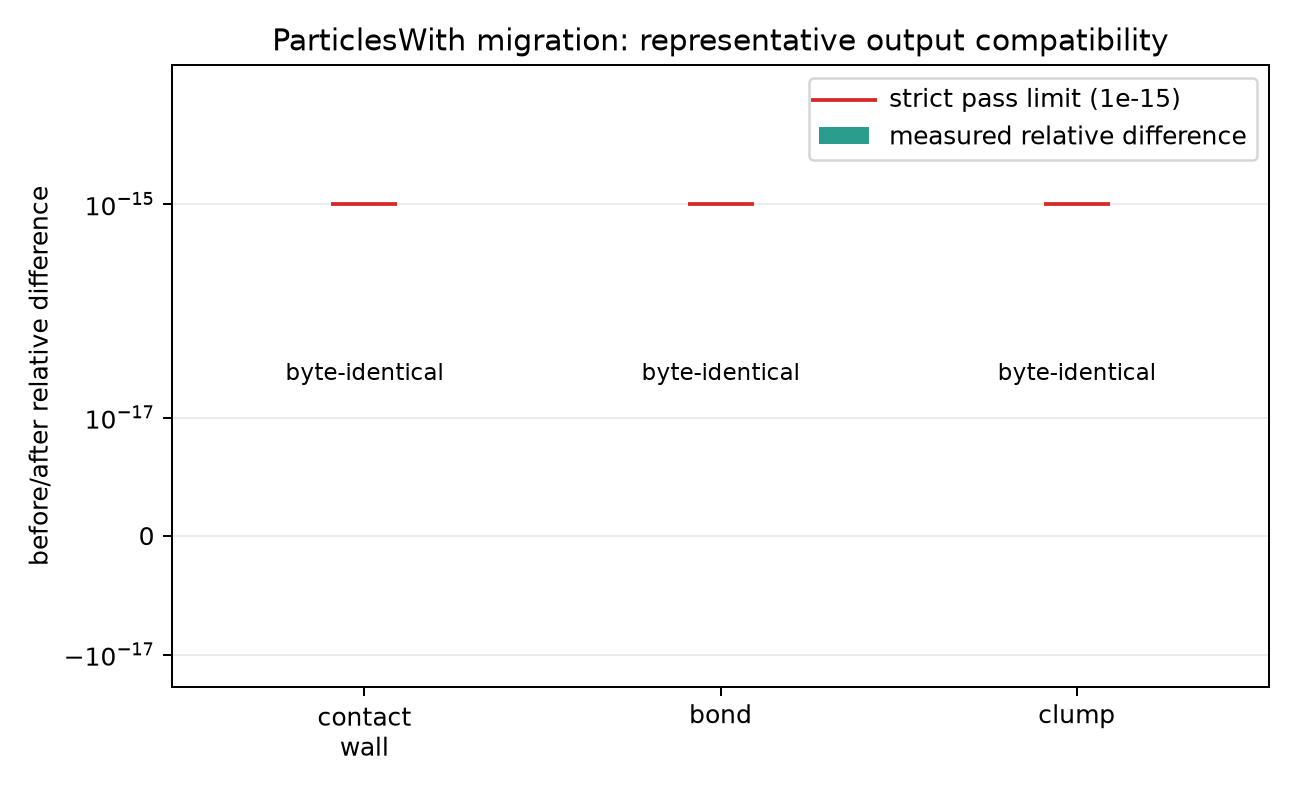
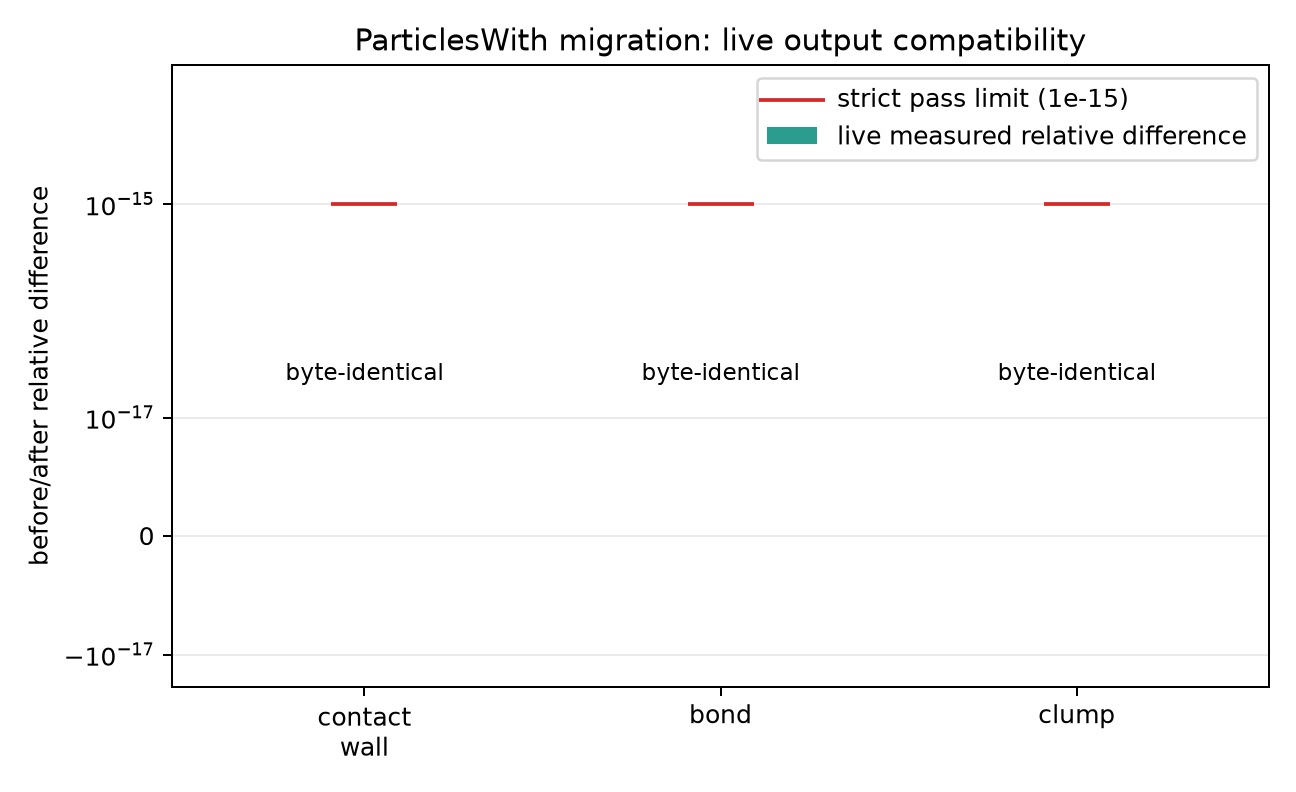
Address typed query migration review

Changed region(s): [[0.216, 0.0303, 0.8951, 0.2121]]

diff --git a/examples/particleswith_migration_validation/sweep.py b/examples/particleswith_migration_validation/sweep.py
@@ -1,45 +1,145 @@
 #!/usr/bin/env python3
-"""Graph the pinned before/after ParticlesWith migration comparison."""
+"""Run and graph a live before/after ParticlesWith compatibility comparison.
+
+The baseline is a detached worktree at the pinned pre-migration revision; the
+candidate is the checkout containing this script.  Both produce their CSVs
+from scratch, so this check detects a current numerical regression rather than
+merely re-plotting an earlier result.
+"""
+from __future__ import annotations
+
+import argparse
 import csv
+import hashlib
+import shutil
+import subprocess
+import tempfile
 from pathlib import Path
 
 HERE = Path(__file__).parent
+REPO = HERE.parents[1]
 ROWS = HERE / "data" / "before_after.csv"
 PLOT = HERE / "plots" / "before_after_compatibility.png"
+BASELINE = "41cb2f116480dba2b4d023a5df5e143408033c2c"
+TOLERANCE = 1.0e-15
+
+CASES = (
+    ("contact_wall", "bench_wall_activate_by_name", "examples/bench_wall_activate_by_name/config.toml", "examples/bench_wall_activate_by_name/data/wall_activate_by_name_results.csv", "particle_fz"),
+    ("bond", "bond_fiber_tensile", "examples/bond_fiber_tensile/config.toml", "examples/bond_fiber_tensile/data/fiber_tensile.csv", "stress_mid"),
+    ("clump", "bench_clump_inertia_sampler", "examples/bench_clump_inertia_sampler/config.toml", "examples/bench_clump_inertia_sampler/data/inertia_sampler.csv", "max_diag_rel_err"),
+)
 
 
-def main():
-    rows = list(csv.DictReader(ROWS.open()))
-    diffs = [float(row["relative_difference"]) for row in rows]
-    tolerances = [float(row["tolerance"]) for row in rows]
-    hashes_match = all(row["before_sha256"] == row["after_sha256"] for row in rows)
-    ok = hashes_match and all(d <= t for d, t in zip(diffs, tolerances))
+def run_case(repo: Path, example: str, config: str, output: str) -> Path:
+    path = repo / output
+    path.unlink(missing_ok=True)
+    subprocess.run(
+        ["cargo", "run", "--release", "--example", example,
+         "--no-default-features", "--features", "precision-double", "--", config],
+        cwd=repo,
+        check=True,
+    )
+    if not path.exists():
+        raise RuntimeError(f"{example} did not write {path}")
+    return path
 
+
+def sha256(path: Path) -> str:
+    return hashlib.sha256(path.read_bytes()).hexdigest()
+
+
+def terminal_observable(path: Path, column: str) -> float:
+    rows = list(csv.DictReader(path.open(newline="")))
+    if not rows:
+        raise RuntimeError(f"{path} has no data rows")
+    return float(rows[-1][column])
+
+
+def relative_difference(before: float, after: float) -> float:
+    return abs(after - before) / max(abs(before), 1.0)
+
+
+def run_comparison() -> list[dict[str, str]]:
+    with tempfile.TemporaryDirectory(prefix="dirt-particleswith-baseline-") as tmp:
+        baseline = Path(tmp) / "baseline"
+        subprocess.run(
+            ["git", "worktree", "add", "--detach", str(baseline), BASELINE],
+            cwd=REPO,
+            check=True,
+        )
+        try:
+            rows = []
+            for name, example, config, output, column in CASES:
+                before_path = run_case(baseline, example, config, output)
+                after_path = run_case(REPO, example, config, output)
+                before = terminal_observable(before_path, column)
+                after = terminal_observable(after_path, column)
+                rows.append({
+                    "case": name,
+                    "observable": column,
+                    "before": f"{before:.17e}",
+                    "after": f"{after:.17e}",
+                    "relative_difference": f"{relative_difference(before, after):.17e}",
+                    "tolerance": f"{TOLERANCE:.17e}",
+                    "before_sha256": sha256(before_path),
+                    "after_sha256": sha256(after_path),
+                })
+            return rows
+        finally:
+            subprocess.run(["git", "worktree", "remove", "--force", str(baseline)], cwd=REPO, check=True)
+
+
+def write_rows(rows: list[dict[str, str]]) -> None:
+    ROWS.parent.mkdir(exist_ok=True)
+    with ROWS.open("w", newline="") as f:
+        writer = csv.DictWriter(f, fieldnames=list(rows[0]), lineterminator="\n")
+        writer.writeheader()
+        writer.writerows(rows)
+
+
+def graph(rows: list[dict[str, str]]) -> bool:
     import matplotlib
     matplotlib.use("Agg")
     import matplotlib.pyplot as plt
 
+    diffs = [float(row["relative_difference"]) for row in rows]
+    tolerances = [float(row["tolerance"]) for row in rows]
+    hashes_match = all(row["before_sha256"] == row["after_sha256"] for row in rows)
+    ok = hashes_match and all(d <= t for d, t in zip(diffs, tolerances))
     fig, ax = plt.subplots(figsize=(7.2, 4.4))
     x = range(len(rows))
-    ax.bar(x, diffs, color="#2a9d8f", label="measured relative difference")
+    ax.bar(x, diffs, color="#2a9d8f", label="live measured relative difference")
     ax.scatter(x, tolerances, color="#d62828", marker="_", s=700,
                label="strict pass limit (1e-15)", zorder=3)
     ax.set_xticks(list(x), [row["case"].replace("_", "\n") for row in rows])
     ax.set_yscale("symlog", linthresh=1e-17)
     ax.set_ylim(-2e-17, 2e-14)
     ax.set_ylabel("before/after relative difference")
-    ax.set_title("ParticlesWith migration: representative output compatibility")
+    ax.set_title("ParticlesWith migration: live output compatibility")
     ax.grid(axis="y", alpha=0.25)
     ax.legend(loc="upper right")
     for i, row in enumerate(rows):
-        ax.text(i, 2e-17, "byte-identical", ha="center", va="bottom", fontsize=9)
+        ax.text(i, 2e-17, "byte-identical" if row["before_sha256"] == row["after_sha256"] else "different",
+                ha="center", va="bottom", fontsize=9)
     fig.tight_layout()
     PLOT.parent.mkdir(exist_ok=True)
     fig.savefig(PLOT, dpi=180)
     print(f"wrote {PLOT}")
     print(f"CSV hashes: {'PASS' if hashes_match else 'FAIL'}")
     print(f"compatibility: {sum(d <= t for d, t in zip(diffs, tolerances))}/{len(rows)} PASS")
-    return 0 if ok else 1
+    return ok
+
+
+def main() -> int:
+    parser = argparse.ArgumentParser(description=__doc__)
+    parser.add_argument("mode", choices=("run", "graph"), nargs="?", default="run")
+    args = parser.parse_args()
+    if args.mode == "run":
+        rows = run_comparison()
+        write_rows(rows)
+    else:
+        rows = list(csv.DictReader(ROWS.open()))
+    return 0 if graph(rows) else 1
 
 
 if __name__ == "__main__":

diff --git a/crates/dirt_clump/src/lib.rs b/crates/dirt_clump/src/lib.rs
@@ -1031,7 +1031,7 @@ pub fn update_clump_positions(
 fn check_lost_clump_atoms(
     atoms: Res<Atom>,
     bodies: Res<MultisphereBodyStore>,
-    registry: Res<AtomDataRegistry>,
+    particles: ParticlesWith<'_, Optional<Read<ClumpAtom>>>,
     comm: Res<CommResource>,
     run_state: Res<RunState>,
 ) {
@@ -1039,37 +1039,38 @@ fn check_lost_clump_atoms(
         return;
     }
 
-    let clump = match registry.get::<ClumpAtom>() {
-        Some(c) => c,
-        None => return,
-    };
+    particles.with(|clump| {
+        let Some(clump) = clump else {
+            return;
+        };
 
-    let nlocal = atoms.nlocal as usize;
-    let mut counts: HashMap<u32, usize> = HashMap::new();
+        let nlocal = atoms.nlocal as usize;
+        let mut counts: HashMap<u32, usize> = HashMap::new();
 
-    for i in 0..nlocal {
-        if i >= clump.body_id.len() {
-            break;
+        for i in 0..nlocal {
+            if i >= clump.body_id.len() {
+                break;
+            }
+            let bid = clump.body_id[i] as u32;
+            if bid > 0 {
+                *counts.entry(bid).or_default() += 1;
+            }
         }
-        let bid = clump.body_id[i] as u32;
-        if bid > 0 {
-            *counts.entry(bid).or_default() += 1;
-        }
-    }
 
-    for body in &bodies.bodies {
-        let expected = body.sub_sphere_tags.len();
-        let actual = counts.get(&body.id).copied().unwrap_or(0);
-        if actual != expected {
-            eprintln!(
-                "WARNING: Body {} has {}/{} atoms on rank {}",
-                body.id,
-                actual,
-                expected,
-                comm.rank()
-            );
+        for body in &bodies.bodies {
+            let expected = body.sub_sphere_tags.len();
+            let actual = counts.get(&body.id).copied().unwrap_or(0);
+            if actual != expected {
+                eprintln!(
+                    "WARNING: Body {} has {}/{} atoms on rank {}",
+                    body.id,
+                    actual,
+                    expected,
+                    comm.rank()
+                );
+            }
         }
-    }
+    });
 }
 
 // ── Clump insertion from config ──────────────────────────────────────────────

diff --git a/crates/dirt_bond/src/lib.rs b/crates/dirt_bond/src/lib.rs
@@ -186,7 +186,7 @@ use dirt_schedule::{
     AUTO_BOND, BOND_BREAKAGE_INIT, BOND_FORCE, BOND_GHOST_CUTOFF, BOND_PLASTICITY_INIT, LOAD_BONDS,
 };
 use soil_core::{
-    Atom, AtomData, AtomDataRegistry, BondEntry, BondStore, CommResource, Config, Domain, Optional,
+    Atom, AtomData, BondEntry, BondStore, CommResource, Config, Domain, Optional,
     ParticleSimScheduleSet, ParticlesWith, Read, ScheduleSetupSet, VirialStress,
     VirialStressPlugin, Write, NEIGHBOR_SETUP,
 };
@@ -1127,7 +1127,7 @@ fn read_and_parse_bonds(
 /// **before** `neighbor_setup` (which locks `ghost_cutoff` into the bin
 /// grid and border skin).
 pub fn extend_ghost_cutoff_for_bonds(
-    registry: Res<AtomDataRegistry>,
+    particles: ParticlesWith<'_, Optional<Read<BondStore>>>,
     bond_config: Res<BondConfig>,
     mut domain: ResMut<Domain>,
     comm: Res<CommResource>,
@@ -1138,11 +1138,8 @@ pub fn extend_ghost_cutoff_for_bonds(
 
     // Global max r0 across all ranks (bonds currently only exist on the
     // rank(s) that auto-bonded or loaded them at setup).
-    let local_max_r0 = {
-        let bond_store = match registry.get::<BondStore>() {
-            Some(bs) => bs,
-            None => return,
-        };
+    let Some(local_max_r0) = particles.with(|bond_store| {
+        let bond_store = bond_store?;
         let mut m = 0.0f64;
         for list in &bond_store.bonds {
             for b in list {
@@ -1151,7 +1148,9 @@ pub fn extend_ghost_cutoff_for_bonds(
                 }
             }
         }
-        m
+        Some(m)
+    }) else {
+        return;
     };
     // all_reduce_max via negated min (only min is in the CommBackend trait).
     let global_max_r0 = -comm.all_reduce_min_f64(-local_max_r0);

diff --git a/crates/dirt_contact_analysis/src/lib.rs b/crates/dirt_contact_analysis/src/lib.rs
@@ -112,7 +112,7 @@ use dirt_atom::DemAtom;
 use dirt_schedule::{CONTACT_ANALYSIS, CONTACT_FORCE};
 use soil_core::Neighbor;
 use soil_core::{
-    register_atom_data, Atom, AtomData, AtomDataRegistry, CommResource, Config, Input, Optional,
+    register_atom_data, Atom, AtomData, CommResource, Config, Input, Optional,
     ParticleSimScheduleSet, ParticlesWith, Read, RunState, Write as ParticleWrite,
 };
 use soil_print::{DumpRegistry, Thermo};
@@ -557,7 +557,7 @@ fn compute_contact_analysis(
 /// Push coordination statistics (avg, max, min) and rattler counts to thermo output.
 fn push_coordination_to_thermo(
     atoms: Res<Atom>,
-    registry: Res<AtomDataRegistry>,
+    particles: ParticlesWith<'_, Optional<Read<ContactAnalysis>>>,
     config: Res<ContactAnalysisConfig>,
     comm: Res<CommResource>,
     mut thermo: ResMut<Thermo>,
@@ -567,7 +567,10 @@ fn push_coordination_to_thermo(
         return;
     }
 
-    if let Some(ca) = registry.get::<ContactAnalysis>() {
+    particles.with(|ca| {
+        let Some(ca) = ca else {
+            return;
+        };
         let nlocal = atoms.nlocal as usize;
         let mut sum = 0.0;
         let mut max_val: f64 = 0.0;
@@ -622,7 +625,7 @@ fn push_coordination_to_thermo(
                 },
             );
         }
-    }
+    });
 }
 
 /// Normalize and push fabric tensor components from the accumulator to thermo.
@@ -741,8 +744,8 @@ fn dump_contact_csv(
 mod tests {
     use super::*;
     use grass_app::App;
-    use soil_core::Atom;
     use soil_core::Neighbor;
+    use soil_core::{Atom, AtomDataRegistry};
     use std::panic::{catch_unwind, AssertUnwindSafe};
 
     fn panic_message(panic: Box<dyn std::any::Any + Send>) -> String {

diff --git a/examples/particleswith_migration_validation/main.rs b/examples/particleswith_migration_validation/main.rs
@@ -5,5 +5,5 @@
 //! source revisions and checks their emitted CSVs byte-for-byte.
 
 fn main() {
-    println!("Run `python3 examples/particleswith_migration_validation/sweep.py graph`.");
+    println!("Run `$BENCH_PYTHON examples/particleswith_migration_validation/sweep.py`.");
 }

diff --git a/examples/particleswith_migration_validation/README.md b/examples/particleswith_migration_validation/README.md
@@ -1,14 +1,17 @@
 # `particleswith_migration_validation`
 
-This compatibility check compares the emitted CSVs from `origin/main`
-(`41cb2f1`) and the typed `ParticlesWith` migration for representative
-contact/wall, BPM bond, and clump paths. Each case was executed in a separate
-isolated worktree with non-MPI `precision-double`; the full CSV SHA-256 hashes
-match, while the plotted observables show the actual before/after difference.
+This compatibility check runs representative contact/wall, BPM bond, and clump
+paths from scratch in a detached `41cb2f1` baseline worktree and the current
+typed-`ParticlesWith` checkout. It compares each emitted CSV by SHA-256 and its
+terminal observable, so a regression in either revision is visible to the
+runner.
 
-Run `python3 examples/particleswith_migration_validation/sweep.py` to regenerate
-the figure and fail if either the full outputs or the strict `1e-15` comparison
-changes.
+Run `$BENCH_PYTHON examples/particleswith_migration_validation/sweep.py` after
+`source ~/projects/.build-env`. The pinned Python plotting dependency is in
+`requirements.txt`; install it with `$BENCH_PYTHON -m pip install -r
+examples/particleswith_migration_validation/requirements.txt` if needed. The
+runner regenerates the CSV and figure and fails if either the full outputs or
+the strict `1e-15` comparison changes.
 
 ![Before/after compatibility](plots/before_after_compatibility.png)
 
